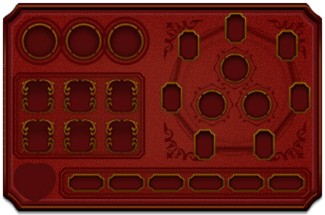
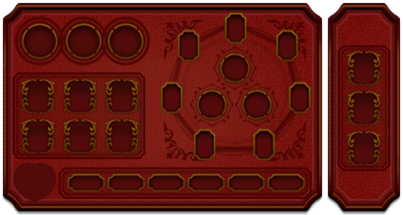
Combine gear-extension.png with gear-overlay.png

diff --git a/src/css/styles.scss b/src/css/styles.scss
@@ -1,29 +1,45 @@
 body {
   background-image: url("../assets/merge-dark.png");
   position: absolute;
-  left: 0;
-  right: 0;
-  top: 0;
+  left:   0;
+  right:  0;
+  top:    0;
   bottom: 0;
+}
+
+.gear-tracker {
+  display: inline-block;
+}
+
+.gear-label {
+  position:    relative;
+  display:     flex;
+  justify-content: center;
+  align-items: center;
+
+  #gear-label-text {
+    position: absolute;
+    color:    white;
+  }
 }
 
 #sword-block {
   .progressive_sword {
     position: absolute;
     left: 15px;
-    top: 16px;
+    top:  16px;
   }
 
   .progressive_mail {
     position: absolute;
     left: 58px;
-    top: 16px
+    top:  16px;
   }
 
   .progressive_shield {
     position: absolute;
     left: 102px;
-    top: 16px;
+    top:   16px;
   }
 }
 
@@ -31,43 +47,43 @@ body {
   .sage_gulley {
     position: absolute;
     left: 218px;
-    top: 4px
+    top:    4px;
   }
 
   .sage_oren {
     position: absolute;
     left: 268px;
-    top: 21px;
+    top:   21px;
   }
 
   .sage_rosso {
     position: absolute;
     left: 280px;
-    top: 73px;
+    top:   73px;
   }
 
   .sage_impa {
     position: absolute;
     left: 245px;
-    top: 121px;
+    top:  121px;
   }
 
   .sage_irene {
     position: absolute;
     left: 185px;
-    top: 121px;
+    top:  121px;
   }
 
   .sage_osfala {
     position: absolute;
     left: 152px;
-    top: 73px;
+    top:   73px;
   }
 
   .sage_seres {
     position: absolute;
     left: 169px;
-    top: 21px;
+    top:   21px;
   }
 }
 
@@ -75,19 +91,19 @@ body {
   .pendant_of_power {
     position: absolute;
     left: 218px;
-    top: 49px
+    top:   49px;
   }
 
   .pendant_of_wisdom {
     position: absolute;
     left: 195px;
-    top: 86px;
+    top:   86px;
   }
 
   .pendant_of_courage {
     position: absolute;
     left: 240px;
-    top: 86px;
+    top:   86px;
   }
 }
 
@@ -95,19 +111,19 @@ body {
   .progressive_bracelet {
     position: absolute;
     left: 21px;
-    top: 79px;
+    top:  79px;
   }
 
   .progressive_mitt {
     position: absolute;
     left: 63px;
-    top: 77px;
+    top:  77px;
   }
 
   .pegasus_boots {
     position: absolute;
     left: 103px;
-    top: 82px;
+    top:   82px;
   }
 
   .zora_flippers {
@@ -125,7 +141,7 @@ body {
   .stamina_scroll {
     position: absolute;
     left: 102px;
-    top: 117px;
+    top:  117px;
   }
 }
 
@@ -133,19 +149,19 @@ body {
   .smooth_gem {
     position: absolute;
     left: 348px;
-    top: 51px;
+    top:   51px;
   }
 
   .pouch {
     position: absolute;
     left: 345px;
-    top: 95px;
+    top:   95px;
   }
 
   .bell {
     position: absolute;
     left: 351px;
-    top: 136px;
+    top:  136px;
   }
 }
 
@@ -167,39 +183,39 @@ body {
   .maiamai {
     position: absolute;
     left: 112px;
-    top: 166px;
+    top:  166px;
   }
 
   .monster_tail {
     position: absolute;
     left: 152px;
-    top: 166px;
+    top:  166px;
   }
 
   .monster_horn {
     position: absolute;
     left: 191px;
-    top: 166px;
+    top:  166px;
   }
 
   .monster_guts {
     position: absolute;
     left: 231px;
-    top: 166px;
+    top:  166px;
   }
 
   .master_ore {
     position: absolute;
     left: 270px;
-    top: 166px;
+    top:  166px;
   }
 }
 
 .loading-spinner {
   position: absolute;
   display: flex;
-  width: 100%;
+  width:  100%;
   height: 100%;
   justify-content: center;
-  align-items: center;
+  align-items:     center;
 }

diff --git a/src/ui/tracker.js b/src/ui/tracker.js
@@ -50,21 +50,16 @@ class Tracker extends React.Component {
               alt="Gear overlay"
               draggable={false}
             />
-            <img
-              id="gear-extension"
-              src={_.get(Images.IMAGES, 'GEAR_EXTENSION')}
-              alt="Gear extension"
-              draggable={false}
-            />
+            <div className="gear-label">
+              <img
+                id="gear-label-image"
+                src={_.get(Images.IMAGES, 'GEAR_LABEL')}
+                alt="Gear label"
+                draggable={false}
+              />
+              <div id="gear-label-text">This is a sentence!</div>
+            </div>
             <GearTracker />
-          </div>
-          <div className="gear-label">
-            <img
-            id="gear-label"
-            src={_.get(Images.IMAGES, 'GEAR_LABEL')}
-            alt="Gear label"
-            draggable={false}
-            />
           </div>
         </div>
       );

diff --git a/src/services/images.js b/src/services/images.js
@@ -156,7 +156,6 @@ class Images {
       MASTER_ORE: import('../assets/gear/ore.png'),
 
       GEAR_OVERLAY: import('../assets/gear-overlay.png'),
-      GEAR_EXTENSION: import('../assets/gear-extension.png'),
       GEAR_LABEL: import('../assets/gear-label.png'),
     };
   }
